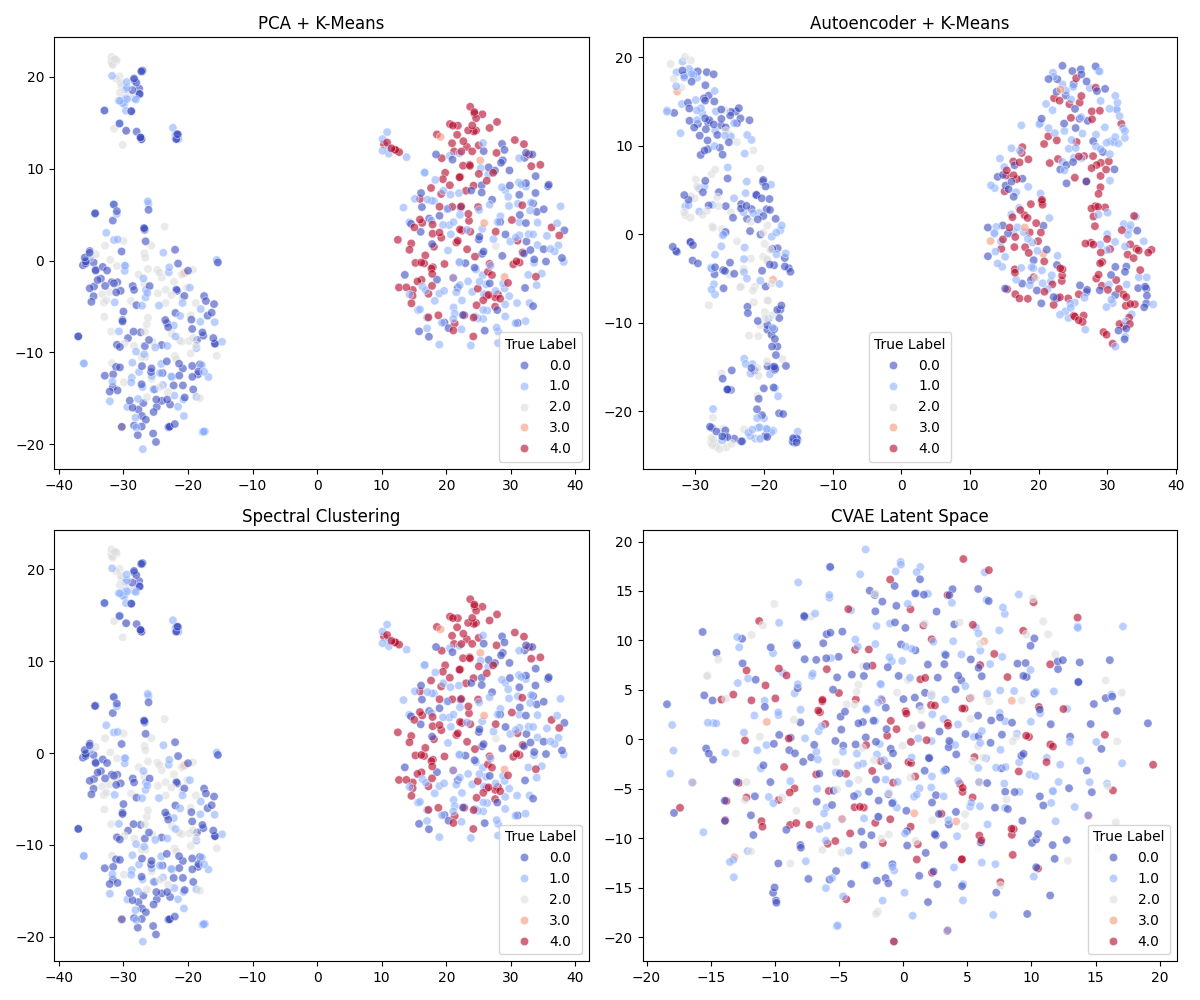
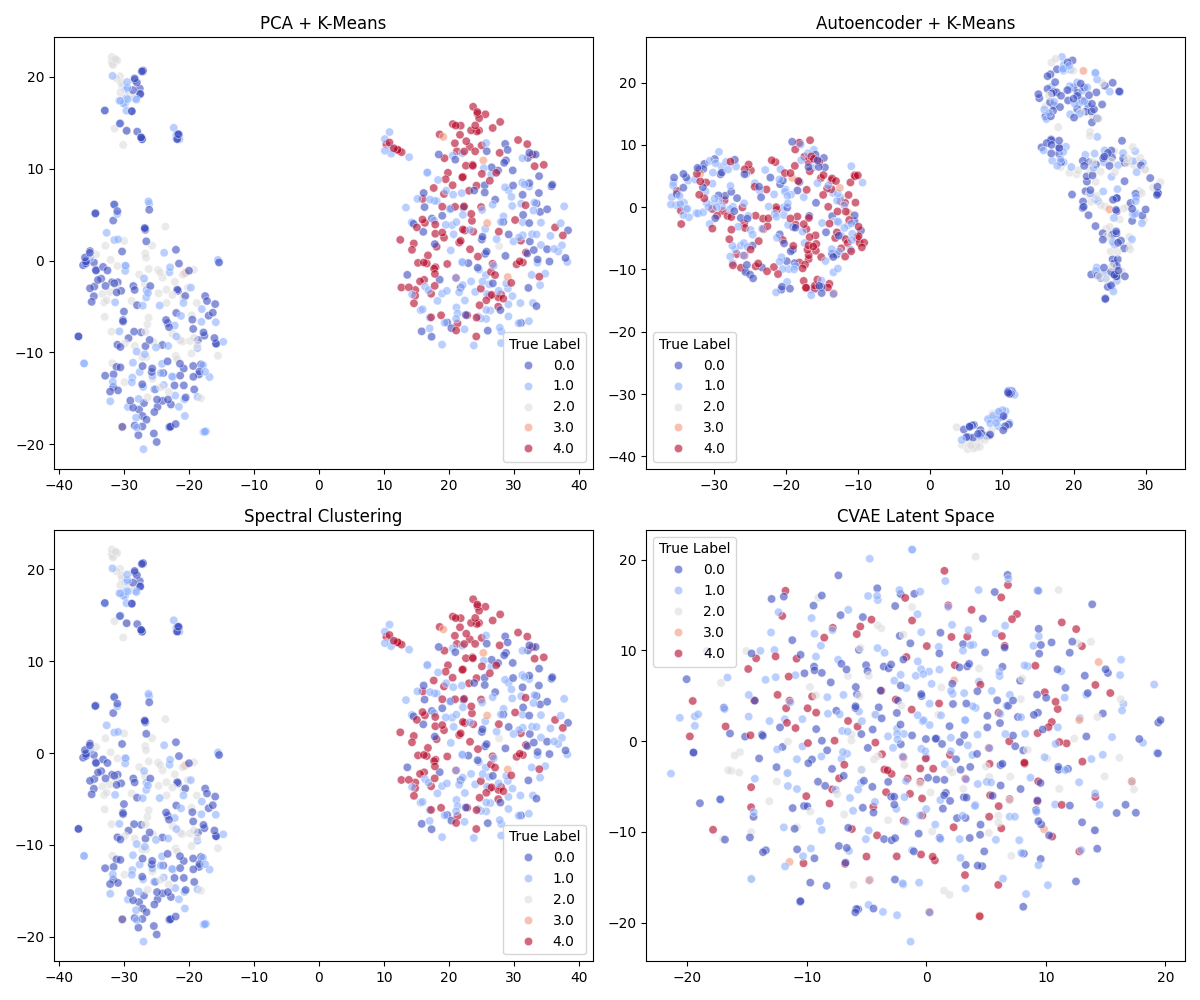
Update docs

diff --git a/src/evaluation.py b/src/evaluation.py
@@ -126,11 +126,12 @@ def purity_score(y_true, y_pred):
     return np.sum(np.amax(cm, axis=0)) / np.sum(cm)
 
 def evaluate_method_hard(X_features, y_true, method_name):
+    n_classes = len(np.unique(y_true))
     if "Spectral" in method_name:
-        clusterer = SpectralClustering(n_clusters=2, affinity='nearest_neighbors', random_state=42)
+        clusterer = SpectralClustering(n_clusters=n_classes, affinity='nearest_neighbors', random_state=42)
         labels = clusterer.fit_predict(X_features)
     else:
-        kmeans = KMeans(n_clusters=2, random_state=42)
+        kmeans = KMeans(n_clusters=n_classes, random_state=42)
         labels = kmeans.fit_predict(X_features)
         
     sil = silhouette_score(X_features, labels)

diff --git a/readme.md b/readme.md
@@ -7,6 +7,5 @@ This project implements a **Conditional Variational Autoencoder (CVAE)** to perf
 This system tackles the "Hard Task" of multimodal learning:
 1.  **Input:** Raw Audio (MFCC features) + Lyrics (Tokenized Text) + Condition (Language Label).
 2.  **Model:** A Conditional VAE that forces the model to learn content (lyrics/melody) separately from the category (language).
-3.  **Goal:** * Reconstruct both Audio and Text accurately.
-    * Generate lyrics conditioned on a specific language.
-    * Evaluate clustering performance against baselines (PCA, K-Means, Autoencoders).
+3.  **Goal:** * Condition the latent space on **5 Universal Genres** (Rock, Pop, Hip-Hop, Folk, Classical).
+    * Evaluate how well the model separates these genres compared to baselines.
